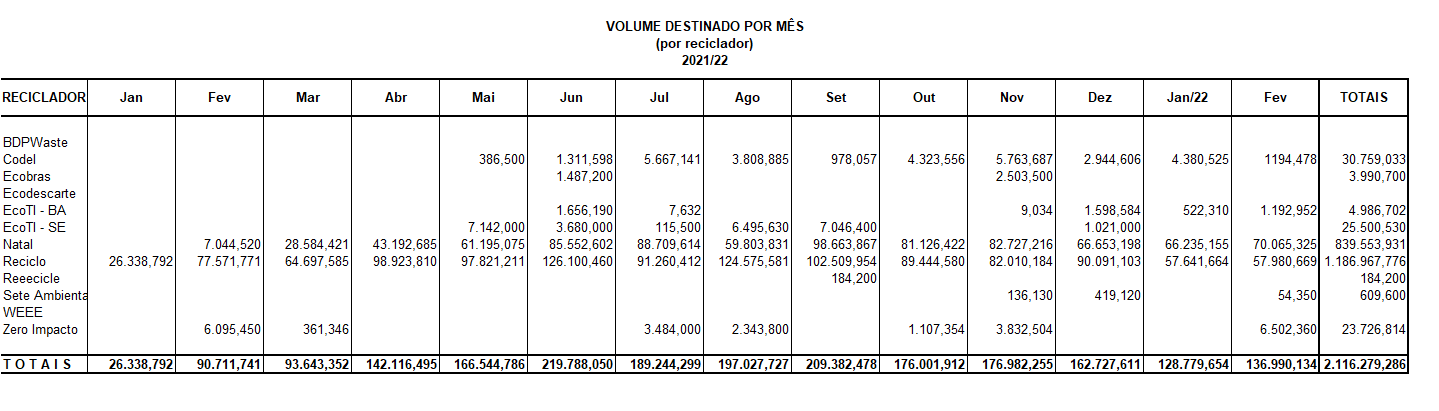
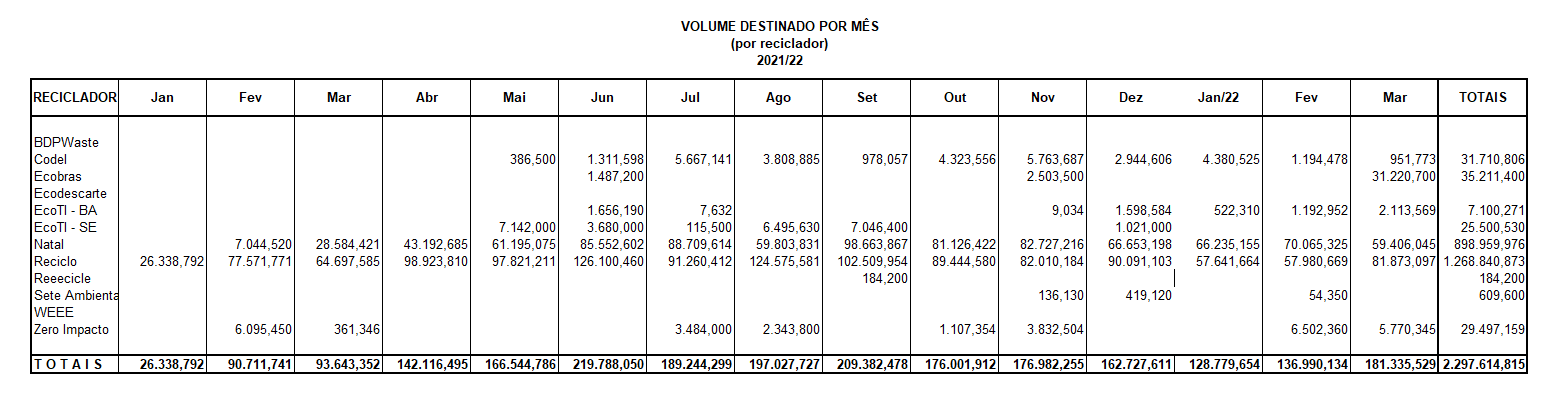
Fechamento de Março/22

diff --git a/frontend/src/components/DataTable/index.tsx b/frontend/src/components/DataTable/index.tsx
@@ -9,7 +9,7 @@ const DataTable = () => {
                         <th>OT's</th>
                         <th>OS's</th>
                         <th>OD's</th>
-                        <th>Estoque em 28/02/22 (Kg)</th>
+                        <th>Estoque em 31/03/22 (Kg)</th>
                         <th>Peso Reciclado (Kg)</th>
                         
                     </tr>
@@ -23,19 +23,19 @@ const DataTable = () => {
                     </tr>
                     <tr>
                         <td>Codel</td>
-                        <td>56</td>
-                        <td>135</td>
-                        <td>354</td>
-                        <td>11.353,547</td>
-                        <td>30.759,033</td>
+                        <td>62</td>
+                        <td>150</td>
+                        <td>375</td>
+                        <td>13.189,647</td>
+                        <td>31.710,806</td>
                     </tr>
                     <tr>
                         <td>Ecobras</td>
                         <td>0</td>
-                        <td>8</td>
-                        <td>9</td>
-                        <td>77.778,910</td>
-                        <td>3.990,700</td>
+                        <td>12</td>
+                        <td>20</td>
+                        <td>70.040,610</td>
+                        <td>35.211,400</td>
                     </tr>
                     <tr>
                         <td>Ecodescarte</td>
@@ -48,34 +48,34 @@ const DataTable = () => {
                     <tr>
                         <td>EcoTI - BA</td>
                         <td>24</td>
-                        <td>35</td>
-                        <td>27</td>
-                        <td>15,179,507</td>
-                        <td>4.986,702</td>
+                        <td>42</td>
+                        <td>31</td>
+                        <td>15.411,242</td>
+                        <td>7.100,271</td>
                     </tr>
                     <tr>
                         <td>EcoTI - SE</td>
                         <td>14</td>
-                        <td>147</td>
+                        <td>158</td>
                         <td>52</td>
-                        <td>37.632,623</td>
+                        <td>97.936,123</td>
                         <td>25.500,530</td>
                     </tr>
                     <tr>
                         <td>Natal</td>
-                        <td>166</td>
-                        <td>1.459</td>
-                        <td>253</td>
-                        <td>103.536,576</td>
-                        <td>839.553,931</td>
+                        <td>208</td>
+                        <td>1.625</td>
+                        <td>267</td>
+                        <td>107,910,284</td>
+                        <td>898.959,976</td>
                     </tr>
                     <tr>
                         <td>Reciclo</td>
-                        <td>409</td>
-                        <td>1.172</td>
-                        <td>765</td>
-                        <td>80.130,925</td>
-                        <td>1.186.967,776</td>
+                        <td>463</td>
+                        <td>1.252</td>
+                        <td>870</td>
+                        <td>57.641,078</td>
+                        <td>1.268.840,873</td>
                     </tr>
                     <tr>
                         <td>Reeecicle</td>
@@ -87,27 +87,27 @@ const DataTable = () => {
                     </tr>
                     <tr>
                         <td>Sete Ambiental</td>
-                        <td>532</td>
-                        <td>386</td>
-                        <td>5</td>
-                        <td>17.981,977</td>
+                        <td>657</td>
+                        <td>485</td>
+                        <td>17</td>
+                        <td>20.592,307</td>
                         <td>609,600</td>
                     </tr>
                     <tr>
                         <td>WEEE</td>
                         <td>0</td>
-                        <td>0</td>
-                        <td>0</td>
+                        <td>12</td>
+                        <td>71</td>
                         <td>0,000</td>
                         <td>0,000</td>
                     </tr>
                     <tr>
                         <td>Zero Impacto</td>
                         <td>73</td>
-                        <td>309</td>
-                        <td>28</td>
-                        <td>36.043,080</td>
-                        <td>23.726,814</td>
+                        <td>361</td>
+                        <td>32</td>
+                        <td>37.337,744</td>
+                        <td>29.497,159</td>
                     </tr>
                     <tr>
                         <td> </td>
@@ -119,11 +119,11 @@ const DataTable = () => {
                     </tr>
                     <tr>
                         <th>T O T A I S</th>
-                        <th>1.360</th>
-                        <th>3.863</th>
-                        <th>1.494</th>
-                        <th>415.391,882</th>
-                        <th>2.116.279,286</th>
+                        <th>1.587</th>
+                        <th>4.309</th>
+                        <th>1.736</th>
+                        <th>455.813,772</th>
+                        <th>2.297.614,815</th>
                     </tr>
                 </thead>
                 <tbody>

diff --git a/frontend/src/components/BarRecbMensal/index.tsx b/frontend/src/components/BarRecbMensal/index.tsx
@@ -16,12 +16,12 @@ const BarRecbMensal = () => {
     
     const mockData = {
         labels: {
-            categories: ['Jan', 'Fev', 'Mar', 'Abr', 'Mai', 'Jun', 'Jul', 'Ago', 'Set', 'Out', 'Nov', 'Dez', 'Jan/22', 'Fev']
+            categories: ['Jan', 'Fev', 'Mar', 'Abr', 'Mai', 'Jun', 'Jul', 'Ago', 'Set', 'Out', 'Nov', 'Dez', 'Jan/22', 'Fev', 'Mar']
         },
         series: [
             {
                 name: "Kg Recebidos",
-                data: [108468, 113628,	123526, 138370, 186067, 187866, 219556, 162479, 257534, 204908, 255846, 235632, 170503, 177506]                  
+                data: [108468, 113628,	123526, 138370, 186067, 187866, 219556, 162479, 257534, 204908, 255846, 235632, 170503, 177506, 183005]                  
             }
         ]
     };

diff --git a/frontend/src/components/BarReciclMensal/index.tsx b/frontend/src/components/BarReciclMensal/index.tsx
@@ -16,12 +16,12 @@ const BarReciclMensal = () => {
     
     const mockData = {
         labels: {
-            categories: ['Jan', 'Fev', 'Mar', 'Abr', 'Mai', 'Jun', 'Jul', 'Ago', 'Set', 'Out', 'Nov', 'Dez', 'Jan/22', 'Fev']
+            categories: ['Jan', 'Fev', 'Mar', 'Abr', 'Mai', 'Jun', 'Jul', 'Ago', 'Set', 'Out', 'Nov', 'Dez', 'Jan/22', 'Fev', 'Mar']
         },
         series: [
             {
                 name: "Kg Reciclados",
-                data: [26339, 90712, 93643, 142116, 166545, 219788, 189244, 197028, 209382, 176002, 176982, 162728, 128780, 136990]                  
+                data: [26339, 90712, 93643, 142116, 166545, 219788, 189244, 197028, 209382, 176002, 176982, 162728, 128780, 136990, 181336]                  
             }
         ]
     };

diff --git a/frontend/src/components/BarChart/index.tsx b/frontend/src/components/BarChart/index.tsx
@@ -17,7 +17,7 @@ const BarChart = () => {
         series: [
             {
                 name: "Ton Reciclados",
-                data: [0, 30.759, 3.991, 0, 4.987, 25.501, 839.554, 1186.968, 0.184, 0.610, 0, 23.727]                  
+                data: [0, 31.711, 35.211, 0, 7.100, 25.501, 898.960, 1268.841, 0.184, 0.610, 0, 29.497]                  
             }
         ]
     };

diff --git a/frontend/src/components/BarOSs/index.tsx b/frontend/src/components/BarOSs/index.tsx
@@ -22,7 +22,7 @@ const BarOSs = () => {
         series: [
             {
                 name: "OS's Abertas",
-                data: [2, 135, 8, 6, 35, 147, 1459, 1172, 206, 386, 0, 309]                  
+                data: [2, 150, 12, 6, 42, 158, 1625, 1252, 206, 485, 12, 361]                  
             }
         ]
     };

diff --git a/frontend/src/components/BarOTs/index.tsx b/frontend/src/components/BarOTs/index.tsx
@@ -22,7 +22,7 @@ const BarOTs = () => {
         series: [
             {
                 name: "OT's Abertas",
-                data: [0, 56, 0, 37, 24, 14, 166, 409, 49, 532, 0, 73]                  
+                data: [0, 62, 0, 37, 24, 14, 208, 463, 49, 657, 0, 73]                  
             }
         ]
     };

diff --git a/frontend/src/components/BarODs/index.tsx b/frontend/src/components/BarODs/index.tsx
@@ -22,7 +22,7 @@ const BarODs = () => {
         series: [
             {
                 name: "OD's Abertas",
-                data: [0, 354, 9, 0, 27, 52, 253, 765, 1, 5, 0, 28]                  
+                data: [0, 375, 20, 0, 31, 52, 267, 870, 1, 17, 71, 32]                  
             }
         ]
     };
